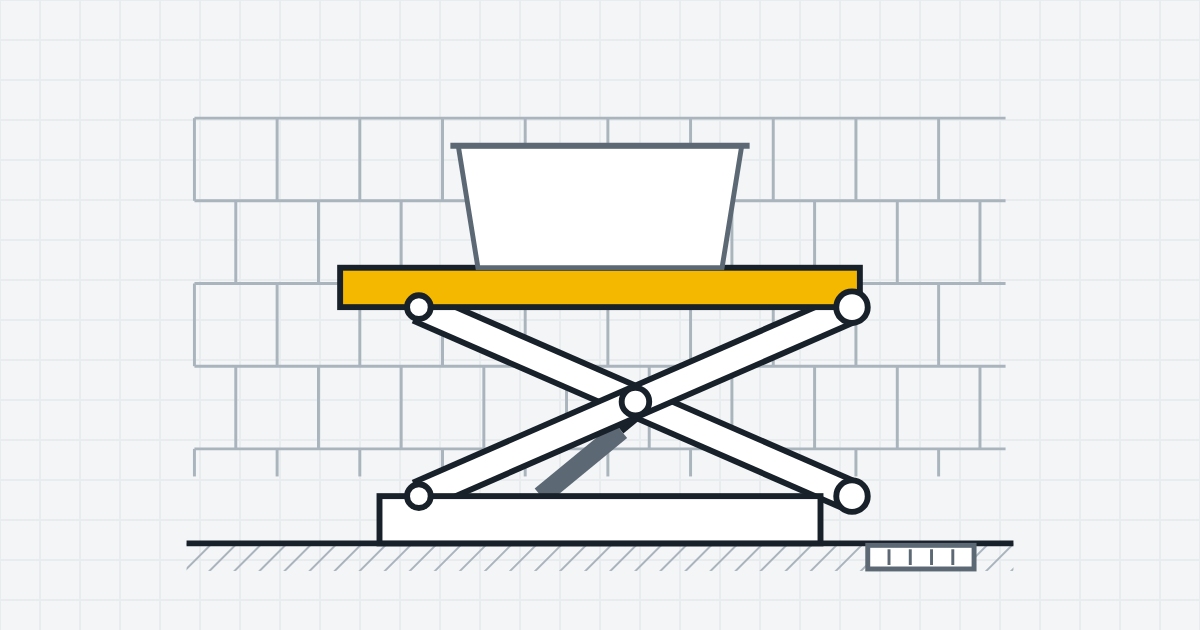
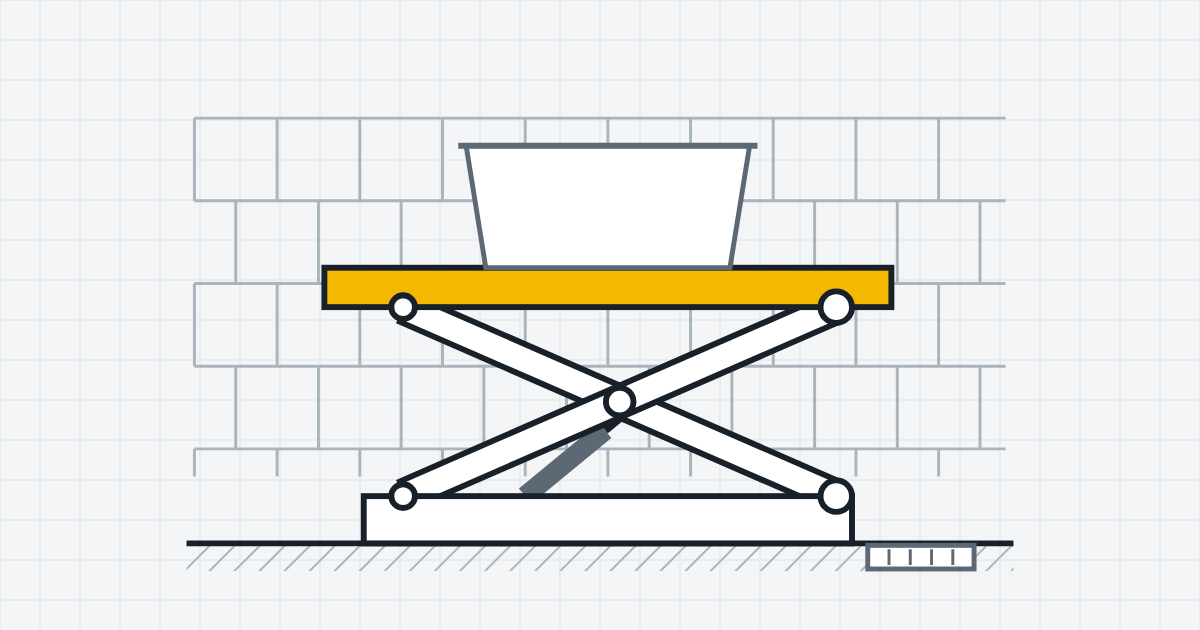
Put the scissor feet back on the base, and check it from now on
The right-hand roller on the food and cleanroom drawings sat 16px past
the end of the base, hanging in mid air.

The cause is a piece of geometry that reads backwards: a scissor's span
is sqrt(leg^2 - height^2), so LOWERING the deck makes the legs more
horizontal and the span wider. Both drawings lowered the lift from 110 to
96 and narrowed the base to match, because a lower table looks like it
ought to be a smaller one. It needed a wider base.

scissor_table() now refuses to draw a mechanism whose feet miss its base.
That check immediately found two more: the floor level table in the
loading guide overhung by 2px, and the ghosted lowered deck in the "what
is a lift table" drawing was built as a whole table just to read one
number off it -- a table that, at 26px of lift, spans nearly its full leg
length. That one is a height now, not a table, and its output is
unchanged.

All 17 category drawings pass the new check and re-render byte-identical.

Changed region(s): [[0.2467, 0.4222, 0.7708, 0.8746], [0.5858, 0.2111, 0.6475, 0.4222], [0.37, 0.2111, 0.4317, 0.4222]]

diff --git a/generators/guide-images.php b/generators/guide-images.php
@@ -56,16 +56,21 @@ function moment_arc( $cx, $cy, $r ) {
 $images = array();
 
 // What is a lift table: the deck in both positions, which is the whole idea.
-$low = scissor_table( array( 'h' => 26, 'leg' => 240 ) );
-$t   = scissor_table( array( 'h' => 120, 'leg' => 240 ) );
+// Only the lowered deck is ghosted, not a whole second mechanism, so this is
+// a height rather than a table: base top, less the lift, less the deck. Built
+// as a table it would have failed the feet-on-base check -- a scissor lowered
+// to 26px spans almost its full leg length, far wider than a standard base.
+$lowered_top = 252 - 26 - 20;
+
+$t = scissor_table( array( 'h' => 120, 'leg' => 240 ) );
 $images['what-is-a-lift-table'] = array(
 	'A lift table platform shown lowered and raised',
 	ground()
-		. ghost_crate( 170, $low['top'], 140, 74 )
-		. rect( 100, $low['top'], 280, 20, 'none', LINE, 2.5 )
+		. ghost_crate( 170, $lowered_top, 140, 74 )
+		. rect( 100, $lowered_top, 280, 20, 'none', LINE, 2.5 )
 		. $t['svg']
 		. crate( 170, $t['top'], 140, 74 )
-		. dim_v( 424, $low['top'], $t['top'] ),
+		. dim_v( 424, $lowered_top, $t['top'] ),
 );
 
 // Capacity: the same weight, centred and then out at the end, with the moment
@@ -84,7 +89,9 @@ $images['lift-table-capacity-selection-guide'] = array(
 // one, so both decks are drawn.
 $t = scissor_table(
 	array(
-		'pin'      => 196,
+		// 188, not 196: at a 6px lift the legs are almost flat and span
+		// nearly their full 210, so the roller needs the base to reach it.
+		'pin'      => 188,
 		'base_top' => 264,
 		'base_h'   => 12,
 		'base_x'   => array( 176, 404 ),

diff --git a/generators/lib/drawing.php b/generators/lib/drawing.php
@@ -112,6 +112,39 @@ function pallet( $x, $bottom, $w ) {
 }
 
 /**
+ * Fail if the mechanism does not stand on its own base.
+ *
+ * The span of a scissor is sqrt(leg^2 - height^2), so lowering a table makes
+ * the legs more horizontal and the span WIDER. Narrow the base at the same
+ * time as lowering the deck -- an easy thing to do, because a lower table
+ * looks like it should be a smaller one -- and the right-hand roller ends up
+ * past the end of the base, hanging in mid air.
+ *
+ * It is a quiet error: the drawing still renders, and at tile size the gap is
+ * a few pixels. So it is checked here rather than left to the eye.
+ *
+ * @param float $x1     Fixed pin, the left foot.
+ * @param float $x2     Roller, the right foot.
+ * @param array $base_x [left, right] of the base frame.
+ */
+function edc_assert_feet_on_base( $x1, $x2, $base_x ) {
+	if ( $x1 < $base_x[0] || $x2 > $base_x[1] ) {
+		fwrite(
+			STDERR,
+			sprintf(
+				"Scissor feet are off the base: feet at %.1f and %.1f, base %.1f to %.1f.\n"
+				. "A lower deck needs a WIDER base, not a narrower one.\n",
+				$x1,
+				$x2,
+				$base_x[0],
+				$base_x[1]
+			)
+		);
+		exit( 1 );
+	}
+}
+
+/**
  * A scissor lift table.
  *
  * Fixed pins on the left, rollers on the right; the span follows from the
@@ -146,6 +179,8 @@ function scissor_table( $o = array() ) {
 	$x2      = $x1 + $span;
 	$top_bot = $yb - $o['h'];
 	$top     = $top_bot - $o['plat_t'];
+
+	edc_assert_feet_on_base( $x1, $x2, $o['base_x'] );
 
 	$out = '';
 

diff --git a/generators/application-images.php b/generators/application-images.php
@@ -180,9 +180,9 @@ $images['assembly-and-production'] = array(
 // on the deck.
 $t = scissor_table(
 	array(
-		'pin'      => 148,
-		'base_x'   => array( 128, 352 ),
-		'plat_x'   => array( 108, 372 ),
+		'pin'      => 140,
+		'base_x'   => array( 120, 368 ),
+		'plat_x'   => array( 100, 388 ),
 		'h'        => 96,
 	)
 );
@@ -192,15 +192,15 @@ $images['food-and-beverage'] = array(
 		. ground()
 		. floor_drain( 376 )
 		. $t['svg']
-		. tote( 168, $t['top'], 144, 62 ),
+		. tote( 172, $t['top'], 144, 62 ),
 );
 
 // Cleanroom: the same table under a ceiling filter, between panel joints.
 $t = scissor_table(
 	array(
-		'pin'      => 148,
-		'base_x'   => array( 128, 352 ),
-		'plat_x'   => array( 108, 372 ),
+		'pin'      => 140,
+		'base_x'   => array( 120, 368 ),
+		'plat_x'   => array( 100, 388 ),
 		'h'        => 96,
 	)
 );
@@ -208,10 +208,10 @@ $images['pharmaceutical-and-cleanroom'] = array(
 	'Lift table under a cleanroom ceiling filter, between wall panel joints',
 	line( 54, 0, 54, GROUND, LINE, 2.5 )
 		. line( 426, 0, 426, GROUND, LINE, 2.5 )
-		. ceiling_filter( 150, 330, 34 )
+		. ceiling_filter( 154, 334, 34 )
 		. ground()
 		. $t['svg']
-		. tote( 176, $t['top'], 128, 58 ),
+		. tote( 180, $t['top'], 128, 58 ),
 );
 
 /* ------------------------------------------------------------------ */
